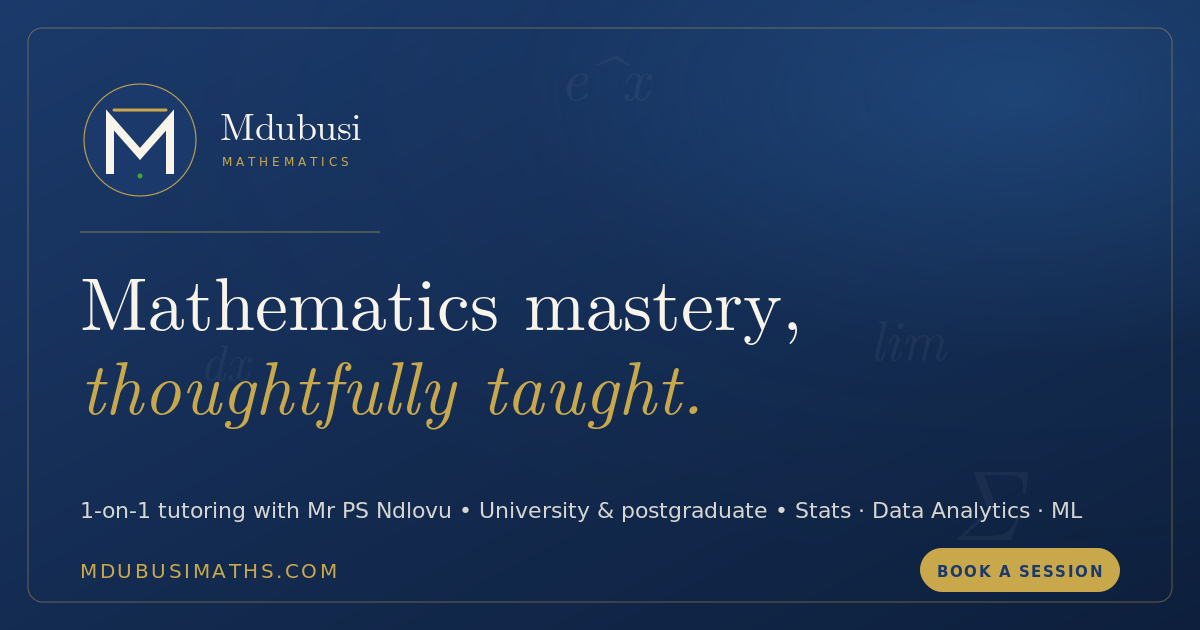
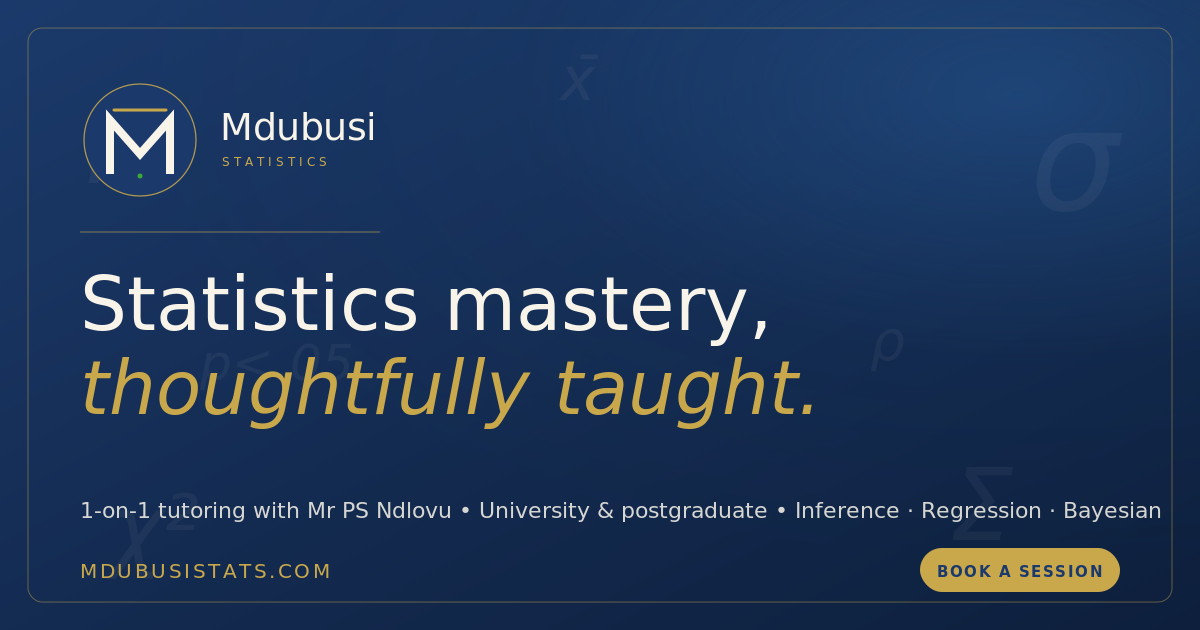
rebrand: Mdubusi Mathematics → Mdubusi Statistics
Update all brand copy, subject offerings, email templates, landing page
content, and config defaults to reflect the pivot from mathematics to
statistics tutoring. Replaces maths-specific topics (calculus, linear
algebra) with statistics equivalents (regression, hypothesis testing,
ANOVA, R/SPSS/Python) throughout copy, FAQ, subject chips, and
placeholders. Updates CAL_USERNAME and Vercel URL comment to mdubusistats.

diff --git a/src/components/landing/tutor-spotlight.tsx b/src/components/landing/tutor-spotlight.tsx
@@ -17,31 +17,31 @@ export function TutorSpotlight() {
           </h2>
 
           <p className="text-muted-foreground text-sm mb-8">
-            BSc Mathematics (cum laude) · PGCE Education · 5+ years private tutoring
+            BSc Statistics (cum laude) · PGCE Education · 5+ years private tutoring
           </p>
 
           <blockquote className="border-l-4 border-gold pl-5 mb-8">
             <p className="text-ink text-xl leading-relaxed italic">
-              &ldquo;Mathematics is not about memorising formulas — it&apos;s about developing
-              logical thinking and problem-solving skills that last a lifetime.&rdquo;
+              &ldquo;Statistics is not about memorising formulas — it&apos;s about learning
+              to reason with data and draw meaningful conclusions from the world around you.&rdquo;
             </p>
           </blockquote>
 
           <div className="space-y-4 text-muted-foreground text-[15px] leading-relaxed mb-8">
             <p>
-              With a passion for making mathematics accessible, {TUTOR_NAME} specialises
+              With a passion for making statistics accessible, {TUTOR_NAME} specialises
               in breaking down complex concepts into clear, manageable steps. Every
               student learns differently, and sessions are tailored to meet each
               student&apos;s unique pace and learning style.
             </p>
             <p>
-              From high school algebra to university-level calculus, the focus is always
+              From descriptive statistics to advanced inference, the focus is always
               on deep understanding — not just passing the next test.
             </p>
           </div>
 
           <div className="flex flex-wrap gap-3">
-            {['Grade 11 & 12', 'University Maths', 'Exam Preparation', 'Statistics', 'Calculus'].map(tag => (
+            {['Grade 11 & 12', 'University Stats', 'Exam Preparation', 'Regression & ANOVA', 'R · SPSS · Python'].map(tag => (
               <span
                 key={tag}
                 className="text-xs font-medium bg-navy/10 text-navy px-3 py-1.5 rounded-full border border-navy/10"

diff --git a/src/app/(student)/book/page.tsx b/src/app/(student)/book/page.tsx
@@ -197,7 +197,7 @@ function StepSubject({ sessionType, onNext, onBack }: {
             type="text"
             value={subject}
             onChange={e => setSubject(e.target.value)}
-            placeholder={isMeetGreet ? 'e.g. Grade 12 Mathematics, First-year Calculus' : 'e.g. Mathematics, Physical Sciences'}
+            placeholder={isMeetGreet ? 'e.g. Grade 12 Statistics, First-year Data Analysis' : 'e.g. Statistics, Probability, Data Analysis'}
             className="w-full border border-border rounded-xl px-4 py-3 text-sm text-ink placeholder:text-muted-foreground focus:outline-none focus:ring-2 focus:ring-gold min-h-[44px]"
           />
         </div>
@@ -212,7 +212,7 @@ function StepSubject({ sessionType, onNext, onBack }: {
             type="text"
             value={topic}
             onChange={e => setTopic(e.target.value)}
-            placeholder={isMeetGreet ? 'e.g. Struggling with calculus before finals' : 'e.g. Calculus, Algebra, Trigonometry'}
+            placeholder={isMeetGreet ? 'e.g. Struggling with regression before finals' : 'e.g. Hypothesis Testing, Regression, ANOVA'}
             className="w-full border border-border rounded-xl px-4 py-3 text-sm text-ink placeholder:text-muted-foreground focus:outline-none focus:ring-2 focus:ring-gold min-h-[44px]"
           />
         </div>
@@ -245,7 +245,7 @@ function StepCalendar({ sessionType, subject, topic, userName, userEmail, onBack
   onBack:      () => void
 }) {
   const slug    = TYPE_SLUGS[sessionType] ?? 'once-off-60min'
-  const calUser = process.env.NEXT_PUBLIC_CAL_USERNAME ?? 'ps.ndlovu_mdubusimaths'
+  const calUser = process.env.NEXT_PUBLIC_CAL_USERNAME ?? 'ps.ndlovu_mdubusistats'
   const calLink = `${calUser}/${slug}`
   const isFree  = sessionType === 'meet_greet'
 

diff --git a/src/emails/WelcomeEmail.tsx b/src/emails/WelcomeEmail.tsx
@@ -24,7 +24,7 @@ export function WelcomeEmail({
               {BRAND_NAME}
             </Text>
             <Text style={{ color: 'rgba(255,255,255,0.55)', fontSize: 12, margin: '2px 0 0' }}>
-              Expert Mathematics Tutoring · South Africa
+              Expert Statistics Tutoring · South Africa
             </Text>
           </Section>
 
@@ -34,8 +34,8 @@ export function WelcomeEmail({
               Welcome aboard, {studentName}!
             </Heading>
             <Text style={{ color: '#3D3D3D', fontSize: 16, lineHeight: 1.65, margin: '0 0 14px' }}>
-              Hi {studentName}, I&apos;m {TUTOR_NAME} and I&apos;m excited to help you master Mathematics.
-              Whether you&apos;re tackling Grade 11 or 12 finals, or pushing through university-level courses,
+              Hi {studentName}, I&apos;m {TUTOR_NAME} and I&apos;m excited to help you master statistics.
+              Whether you&apos;re tackling Grade 11 or 12 finals, or working through university-level courses,
               you&apos;re in the right place.
             </Text>
             <Text style={{ color: '#3D3D3D', fontSize: 16, lineHeight: 1.65, margin: '0 0 28px' }}>

diff --git a/src/components/landing/hero.tsx b/src/components/landing/hero.tsx
@@ -61,7 +61,7 @@ export function Hero() {
             <div className="flex items-center gap-3 mb-5">
               <span className="w-8 h-0.5 bg-gold" />
               <span className="text-gold text-xs font-semibold tracking-[0.2em] uppercase">
-                Mathematics Tutor &amp; Mentor
+                Statistics Tutor &amp; Mentor
               </span>
             </div>
 
@@ -72,9 +72,9 @@ export function Hero() {
             </h1>
 
             <p className="text-white/65 text-lg leading-relaxed max-w-lg mb-8">
-              Passionate mathematics tutor dedicated to helping students unlock their
-              full potential. From high school to university level, I make complex
-              mathematical concepts simple and accessible.
+              Passionate statistics tutor dedicated to helping students navigate data,
+              probability, and inference with confidence. From high school to university
+              level, I make complex statistical concepts clear and accessible.
             </p>
 
             {/* CTAs */}

diff --git a/src/app/(auth)/signup/page.tsx b/src/app/(auth)/signup/page.tsx
@@ -74,7 +74,7 @@ export default function SignupPage() {
   return (
     <>
       <h1 className="font-display text-3xl font-medium text-navy mb-1">Create an account</h1>
-      <p className="text-muted-foreground text-sm mb-6">Start your mathematics journey today</p>
+      <p className="text-muted-foreground text-sm mb-6">Start your statistics journey today</p>
 
       {/* Google OAuth */}
       <button
@@ -162,7 +162,7 @@ export default function SignupPage() {
             <label htmlFor="subjects" className="block text-sm font-medium text-ink mb-1.5">
               Subjects you need help with <span className="font-normal text-muted-foreground">(optional)</span>
             </label>
-            <input id="subjects" type="text" placeholder="e.g. Mathematics, Physical Sciences, Calculus"
+            <input id="subjects" type="text" placeholder="e.g. Statistics, Probability, Data Analysis"
               className={inputCls} {...register('subjects')} />
           </div>
         </div>

diff --git a/src/components/student/profile-form.tsx b/src/components/student/profile-form.tsx
@@ -16,15 +16,15 @@ const ACADEMIC_LEVELS = [
 ]
 
 const COMMON_SUBJECTS = [
-  'Mathematics',
-  'Physical Sciences',
-  'Mathematical Literacy',
-  'Accounting',
-  'Economics',
-  'Engineering Mathematics',
-  'Calculus',
   'Statistics',
-  'Applied Mathematics',
+  'Probability',
+  'Data Analysis',
+  'Descriptive Statistics',
+  'Regression Analysis',
+  'Hypothesis Testing',
+  'ANOVA',
+  'R Programming',
+  'SPSS',
 ]
 
 const schema = z.object({
@@ -213,7 +213,7 @@ export function ProfileForm({ defaultValues }: ProfileFormProps) {
             <input
               id="subjects"
               type="text"
-              placeholder="e.g. Mathematics, Physical Sciences, Calculus"
+              placeholder="e.g. Statistics, Probability, Data Analysis"
               className={inputCls}
               {...register('subjects')}
             />

diff --git a/src/components/landing/faq.tsx b/src/components/landing/faq.tsx
@@ -28,7 +28,7 @@ const FAQS = [
   },
   {
     question: 'What subjects and levels do you cover?',
-    answer:   'We specialise in Mathematics at all levels — Grade 11 and 12 (CAPS curriculum), and university-level maths including calculus, linear algebra, probability and statistics, and differential equations. If you\'re unsure whether your level or topic is covered, start with a free Meet & Greet.',
+    answer:   'We specialise in Statistics at all levels — Grade 11 and 12 (CAPS curriculum), and university-level statistics including descriptive statistics, probability, regression analysis, hypothesis testing, ANOVA, and data analysis using R, SPSS, and Python. If you\'re unsure whether your level or topic is covered, start with a free Meet & Greet.',
   },
   {
     question: 'How do group sessions work?',

diff --git a/src/app/layout.tsx b/src/app/layout.tsx
@@ -32,12 +32,12 @@ export const metadata: Metadata = {
     default: BRAND_NAME,
     template: `%s | ${BRAND_NAME}`,
   },
-  description: 'Expert mathematics tutoring for South African students — Grades 11, 12, and university level.',
+  description: 'Expert statistics tutoring for South African students — Grades 11, 12, and university level.',
   metadataBase: new URL(process.env.NEXT_PUBLIC_APP_URL ?? 'http://localhost:3000'),
   icons: { icon: '/favicon.svg' },
   openGraph: {
     title: BRAND_NAME,
-    description: 'Expert mathematics tutoring for South African students.',
+    description: 'Expert statistics tutoring for South African students.',
     images: ['/og-image.png'],
   },
 }

diff --git a/src/emails/BookingConfirmation.tsx b/src/emails/BookingConfirmation.tsx
@@ -15,7 +15,7 @@ interface BookingConfirmationProps {
 
 export function BookingConfirmation({
   studentName = 'Student',
-  subject = 'Mathematics',
+  subject = 'Statistics',
   topic = null,
   sessionType = 'Once-off (60 min)',
   startTime = '',
@@ -50,7 +50,7 @@ export function BookingConfirmation({
               {BRAND_NAME}
             </Text>
             <Text style={{ color: 'rgba(255,255,255,0.55)', fontSize: 12, margin: '2px 0 0' }}>
-              Expert Mathematics Tutoring · South Africa
+              Expert Statistics Tutoring · South Africa
             </Text>
           </Section>
 

diff --git a/src/components/landing/value-props.tsx b/src/components/landing/value-props.tsx
@@ -5,7 +5,7 @@ const SERVICES = [
   {
     icon:        User,
     title:       'Private Tutoring',
-    description: 'One-on-one personalised sessions tailored to your learning pace, covering any mathematics topic from Grade 11 to university level.',
+    description: 'One-on-one personalised sessions tailored to your learning pace, covering statistics from descriptive analysis to advanced inference — Grade 11 to university level.',
     delay:       0,
   },
   {

diff --git a/src/lib/constants.ts b/src/lib/constants.ts
@@ -37,4 +37,4 @@ export const SOCIAL_LINKS = {
 }
 
 // ─── Cal.com ─────────────────────────────────────────────────────────────────
-export const CAL_USERNAME = process.env.CAL_USERNAME ?? 'ps.ndlovu_mdubusimaths'
+export const CAL_USERNAME = process.env.CAL_USERNAME ?? 'ps.ndlovu_mdubusistats'

diff --git a/src/app/api/webhooks/cal/route.ts b/src/app/api/webhooks/cal/route.ts
@@ -89,7 +89,7 @@ export async function POST(req: Request) {
       attendeeName:   attendee.name,
       eventTypeSlug,
       studentId:      student.id,
-      subject:        responses['subject']?.value  ?? 'Mathematics',
+      subject:        responses['subject']?.value  ?? 'Statistics',
       topic:          responses['topic']?.value    ?? null,
     })
 
